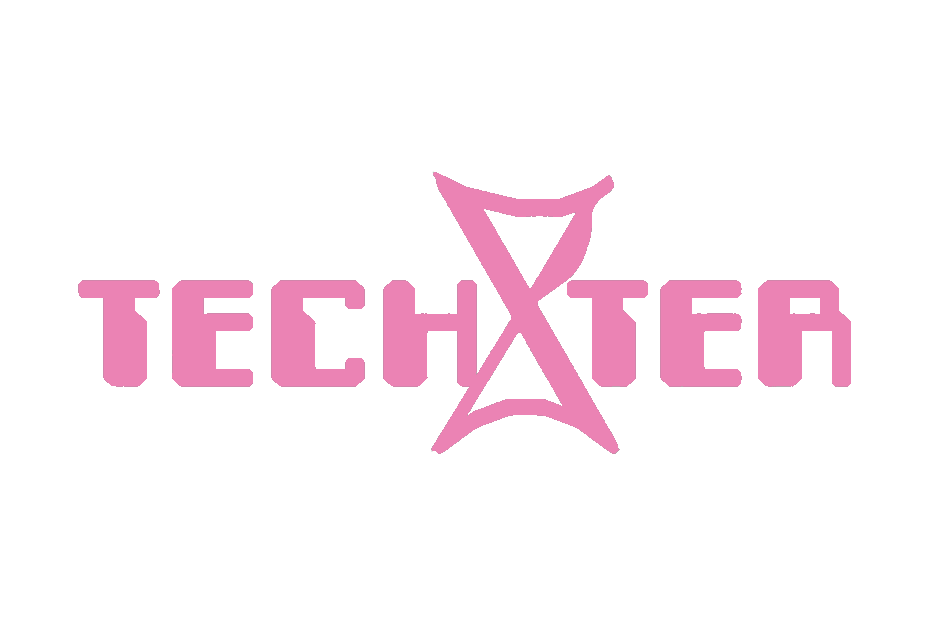
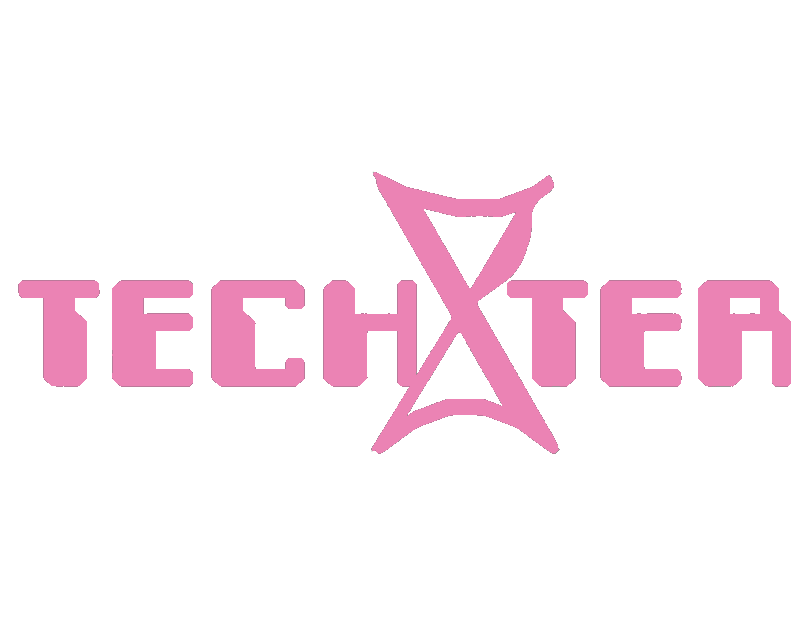
responsive update

Changed region(s): [[0.4316, 0.2719, 0.9864, 0.725], [0.0, 0.4229, 0.4007, 0.6343]]

diff --git a/index.css b/index.css
@@ -56,8 +56,8 @@ nav {
 
 .logo {
   height: auto;
-  width: 150px;
-  margin-left: -10px;
+  width: 120px;
+  
 }
 
 
@@ -993,7 +993,7 @@ nav {
 }
 
 .footer img {
-  width: 150px;
+  width: 120px;
   height: auto;
 }
 
